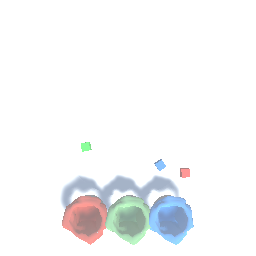
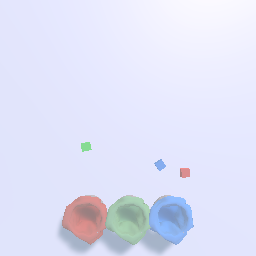
Light Randomizer implemented

diff --git a/PickAndPlaceProject/Assets/Scripts/LightRandomizer.cs b/PickAndPlaceProject/Assets/Scripts/LightRandomizer.cs
@@ -1,0 +1,43 @@
+using System.Collections;
+using System.Collections.Generic;
+using System;
+using UnityEngine;
+using UnityEngine.Perception.Randomization.Parameters;
+using UnityEngine.Perception.Randomization.Randomizers;
+using UnityEngine.Perception.Randomization.Samplers;
+
+[Serializable]
+[AddRandomizerMenu("Perception/Light Randomizer")]
+public class LightRandomizer : Randomizer
+{
+    public FloatParameter lightIntensityParameter = new FloatParameter{ value = new UniformSampler(.9f, 1.1f)};
+
+    public FloatParameter rotationX = new FloatParameter { value = new UniformSampler(40, 80)};
+
+    public FloatParameter rotationY = new FloatParameter { value = new UniformSampler(-180, 180)};
+
+    public ColorRgbParameter lightColorParameter = new ColorRgbParameter
+    {
+        red = new UniformSampler(.5f, 1f),
+        green = new UniformSampler(.5f, 1f),
+        blue = new UniformSampler(.5f, 1f),
+        alpha = new ConstantSampler(1f)
+    };
+
+    protected override void OnIterationStart()
+    {
+        /*Runs at the start of every iteration*/
+        IEnumerable<LightRandomizerTag> tags = tagManager.Query<LightRandomizerTag>();
+
+        foreach (LightRandomizerTag tag in tags)
+        {
+            var light = tag.gameObject.GetComponent<Light>();
+            light.intensity = lightIntensityParameter.Sample();
+            light.color = lightColorParameter.Sample();
+
+            Vector3 rotation = new Vector3(rotationX.Sample(), rotationY.Sample(), tag.gameObject.transform.eulerAngles.z);
+            tag.gameObject.transform.rotation = Quaternion.Euler(rotation);
+        }
+
+    }
+}

diff --git a/PickAndPlaceProject/Assets/Scripts/LightRandomizerTag.cs b/PickAndPlaceProject/Assets/Scripts/LightRandomizerTag.cs
@@ -1,0 +1,11 @@
+using System.Collections;
+using System.Collections.Generic;
+using UnityEngine;
+using UnityEngine.Perception.Randomization.Randomizers;
+
+[AddComponentMenu("Perception/RandomizerTags/LightRandomizerTag")]
+[RequireComponent(typeof(Light))]
+public class LightRandomizerTag : RandomizerTag
+{
+    
+}
